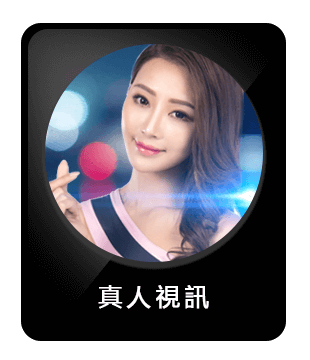
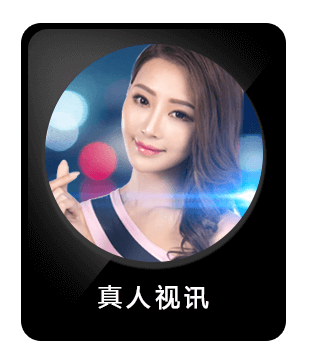
mod

Changed region(s): [[0.3194, 0.7944, 0.6677, 0.8556], [0.8129, 0.4583, 0.8419, 0.4889]]

diff --git a/action/20181021_bbn/stylesheets/screen.css b/action/20181021_bbn/stylesheets/screen.css
@@ -763,8 +763,13 @@ body {
 #elegame .elegame_part3 .btnbox > div .img {
   display: inline-block;
   position: relative;
+  -webkit-transition: all 0.3s ease;
+  -moz-transition: all 0.3s ease;
+  -ms-transition: all 0.3s ease;
+  -o-transition: all 0.3s ease;
+  transition: all 0.3s ease;
 }
-/* line 643, ../sass/screen.scss */
+/* line 644, ../sass/screen.scss */
 #elegame .elegame_part3 .btnbox > div .img:after {
   content: "";
   position: absolute;
@@ -782,29 +787,37 @@ body {
   cursor: pointer;
 }
 /* line 656, ../sass/screen.scss */
+#elegame .elegame_part3 .btnbox > div .img:hover {
+  -webkit-transform: scale(1.1);
+  -moz-transform: scale(1.1);
+  -ms-transform: scale(1.1);
+  -o-transform: scale(1.1);
+  transform: scale(1.1);
+}
+/* line 658, ../sass/screen.scss */
 #elegame .elegame_part3 .btnbox > div .img:hover:after {
   opacity: 1;
 }
-/* line 660, ../sass/screen.scss */
+/* line 662, ../sass/screen.scss */
 #elegame .elegame_part3 .btnbox .budz .img:after {
   background-image: url(../images/eleimg02_btn1_active.png);
 }
-/* line 661, ../sass/screen.scss */
+/* line 663, ../sass/screen.scss */
 #elegame .elegame_part3 .btnbox .buds .img:after {
   background-image: url(../images/eleimg02_btn2_active.png);
 }
-/* line 662, ../sass/screen.scss */
+/* line 664, ../sass/screen.scss */
 #elegame .elegame_part3 .btnbox .active .img:after {
   opacity: 1;
 }
-/* line 664, ../sass/screen.scss */
+/* line 666, ../sass/screen.scss */
 #elegame .elegame_part3 .boborder {
   background: url(../images/eleimgborder.png) no-repeat center;
   background-size: contain;
   padding: 50px;
 }
 @media screen and (min-width: 0) and (max-width: 767px) {
-  /* line 664, ../sass/screen.scss */
+  /* line 666, ../sass/screen.scss */
   #elegame .elegame_part3 .boborder {
     padding: 0;
   }
@@ -874,7 +887,7 @@ body {
     background-position: left 0 bottom 0;
   }
 }
-/* line 682, ../sass/screen.scss */
+/* line 684, ../sass/screen.scss */
 .totop {
   position: fixed;
   bottom: 30px;
@@ -891,20 +904,20 @@ body {
   -o-border-radius: 50%;
   border-radius: 50%;
 }
-/* line 694, ../sass/screen.scss */
+/* line 696, ../sass/screen.scss */
 .totop:hover {
   background: #494949;
 }
 
 @media screen and (min-width: 768px) {
-  /* line 698, ../sass/screen.scss */
+  /* line 700, ../sass/screen.scss */
   .mb_show {
     display: none !important;
   }
 }
 
 @media screen and (min-width: 0) and (max-width: 767px) {
-  /* line 703, ../sass/screen.scss */
+  /* line 705, ../sass/screen.scss */
   .pc_show {
     display: none !important;
   }

diff --git a/action/20181021_bbn/index.html b/action/20181021_bbn/index.html
@@ -231,7 +231,7 @@
             <div class="elegame_part3 mb_show">
                 <div class="wrapper_in">
                     <div class="rowbox btnbox">
-                        <div><div class="bubtn budz active"><div class="img"><img src="images/eleimg02_btn1.png" alt=""></div></div></div>
+                        <div><div class="bubtn budz"><div class="img"><img src="images/eleimg02_btn1.png" alt=""></div></div></div>
                     </div>
                     <div class="boborder">
                         <div><div class="img"><img src="images/eleimg02_page1.png" alt=""></div></div>

diff --git a/action/20181021_bbn/sass/screen.scss b/action/20181021_bbn/sass/screen.scss
@@ -640,6 +640,7 @@ body{
                 .img{
                     display: inline-block;
                     position: relative;
+                    @include css3(transition,all .3s ease);
                     &:after{
                         content: "";
                         position: absolute;
@@ -653,6 +654,7 @@ body{
                         cursor: pointer;
                     }
                     &:hover{
+                        @include css3(transform,scale(1.1));
                         &:after{opacity: 1;}
                     }
                 }
